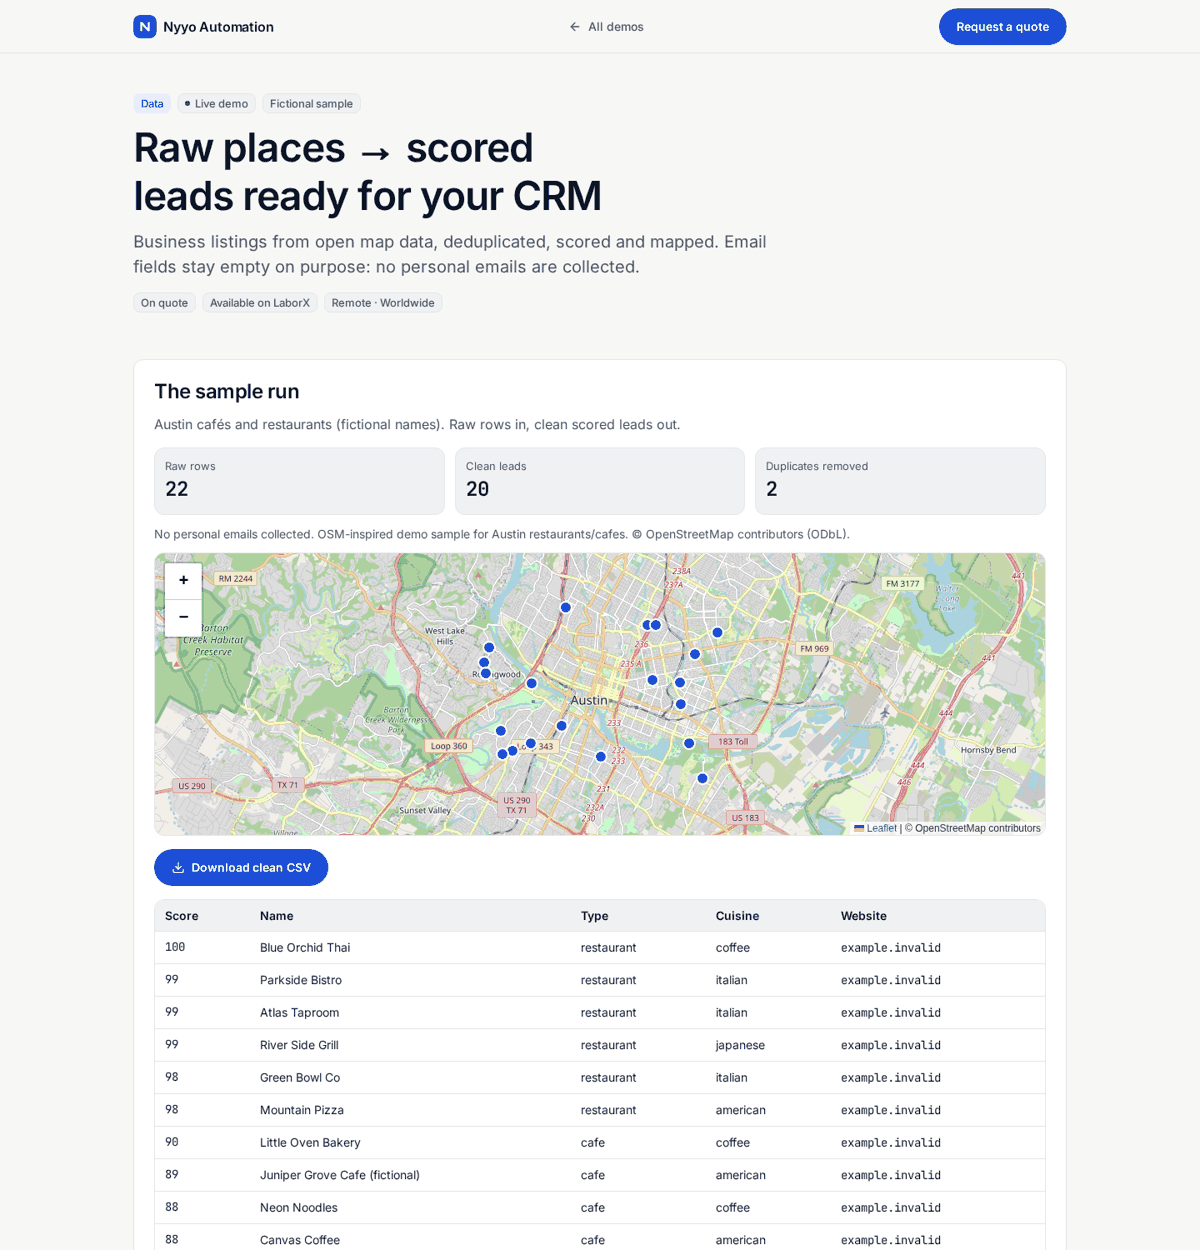
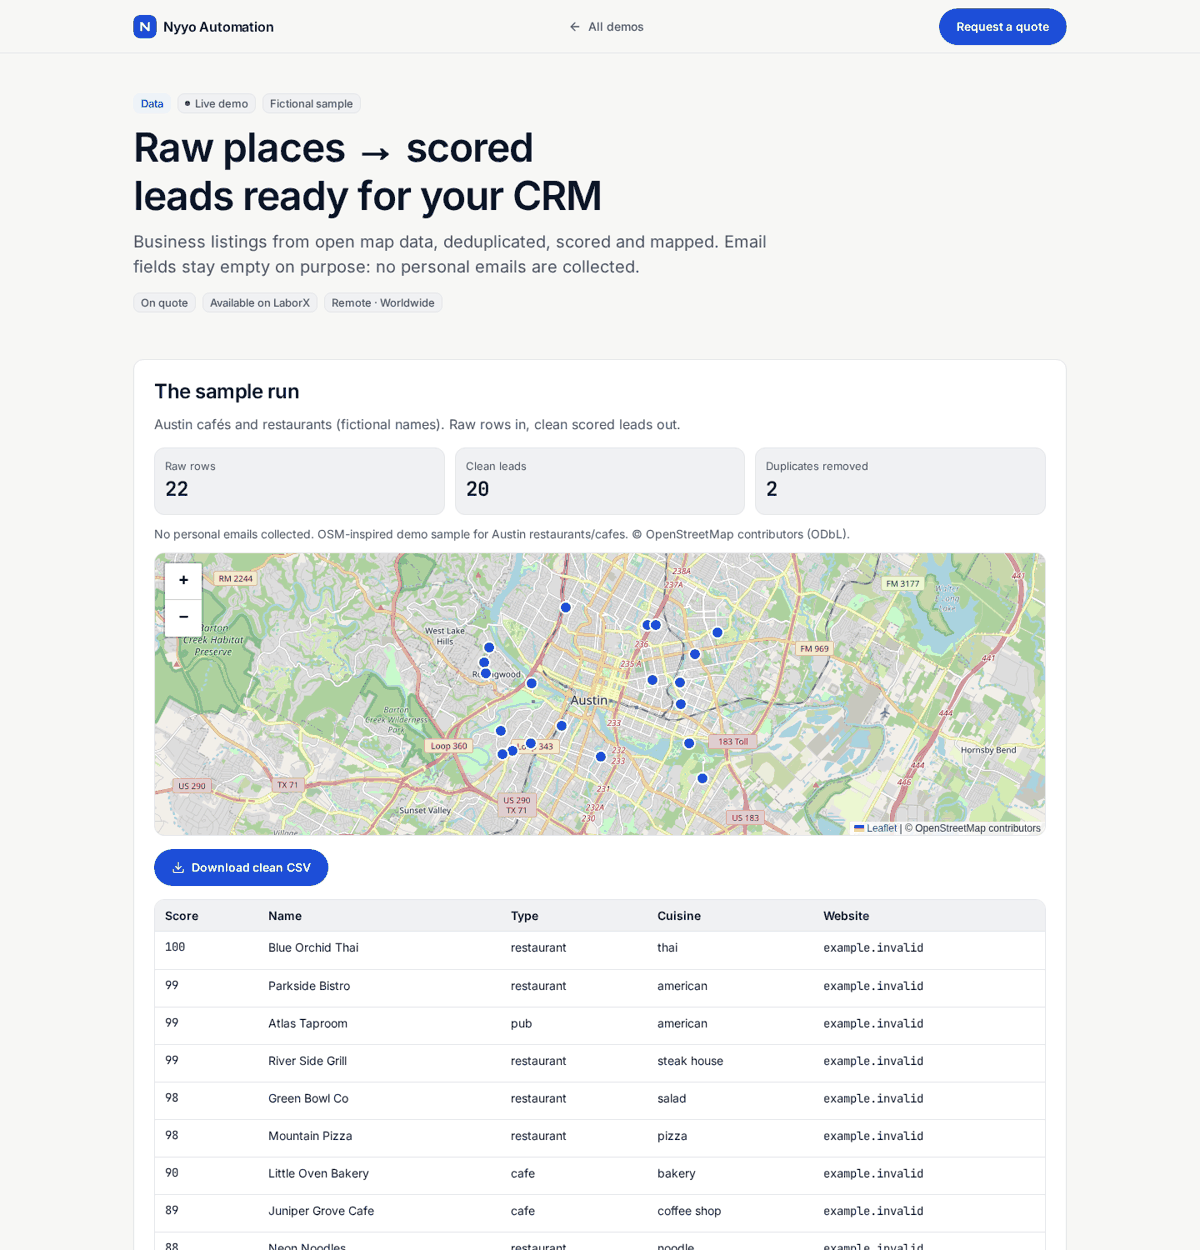
lead-pipeline (QA T021): coherent sample data (no Demo/fictional suffixes, type and cuisine match each name) in JSON and both CSVs; readable type labels; refreshed README still

diff --git a/demos/lead-pipeline/index.html b/demos/lead-pipeline/index.html
@@ -130,7 +130,7 @@
       .bindPopup(`<strong>${esc(l.name)}</strong><br>Score ${esc(l.lead_score)}`).addTo(map));
   }
   document.getElementById("tb").innerHTML = leads.slice().sort((a, b) => b.lead_score - a.lead_score)
-    .map((l) => `<tr><td class="mono">${esc(l.lead_score)}</td><td>${esc(l.name)}</td><td>${esc(l.amenity)}</td><td class="hide-sm">${esc(l.cuisine || "—")}</td><td class="hide-sm">${l.website ? '<span class="mono">' + esc(new URL(l.website).hostname) + "</span>" : "—"}</td></tr>`).join("");
+    .map((l) => `<tr><td class="mono">${esc(l.lead_score)}</td><td>${esc(l.name)}</td><td>${esc(String(l.amenity).replace(/_/g, " "))}</td><td class="hide-sm">${esc(String(l.cuisine || "—").replace(/_/g, " "))}</td><td class="hide-sm">${l.website ? '<span class="mono">' + esc(new URL(l.website).hostname) + "</span>" : "—"}</td></tr>`).join("");
 })();
 </script>
 </body>
